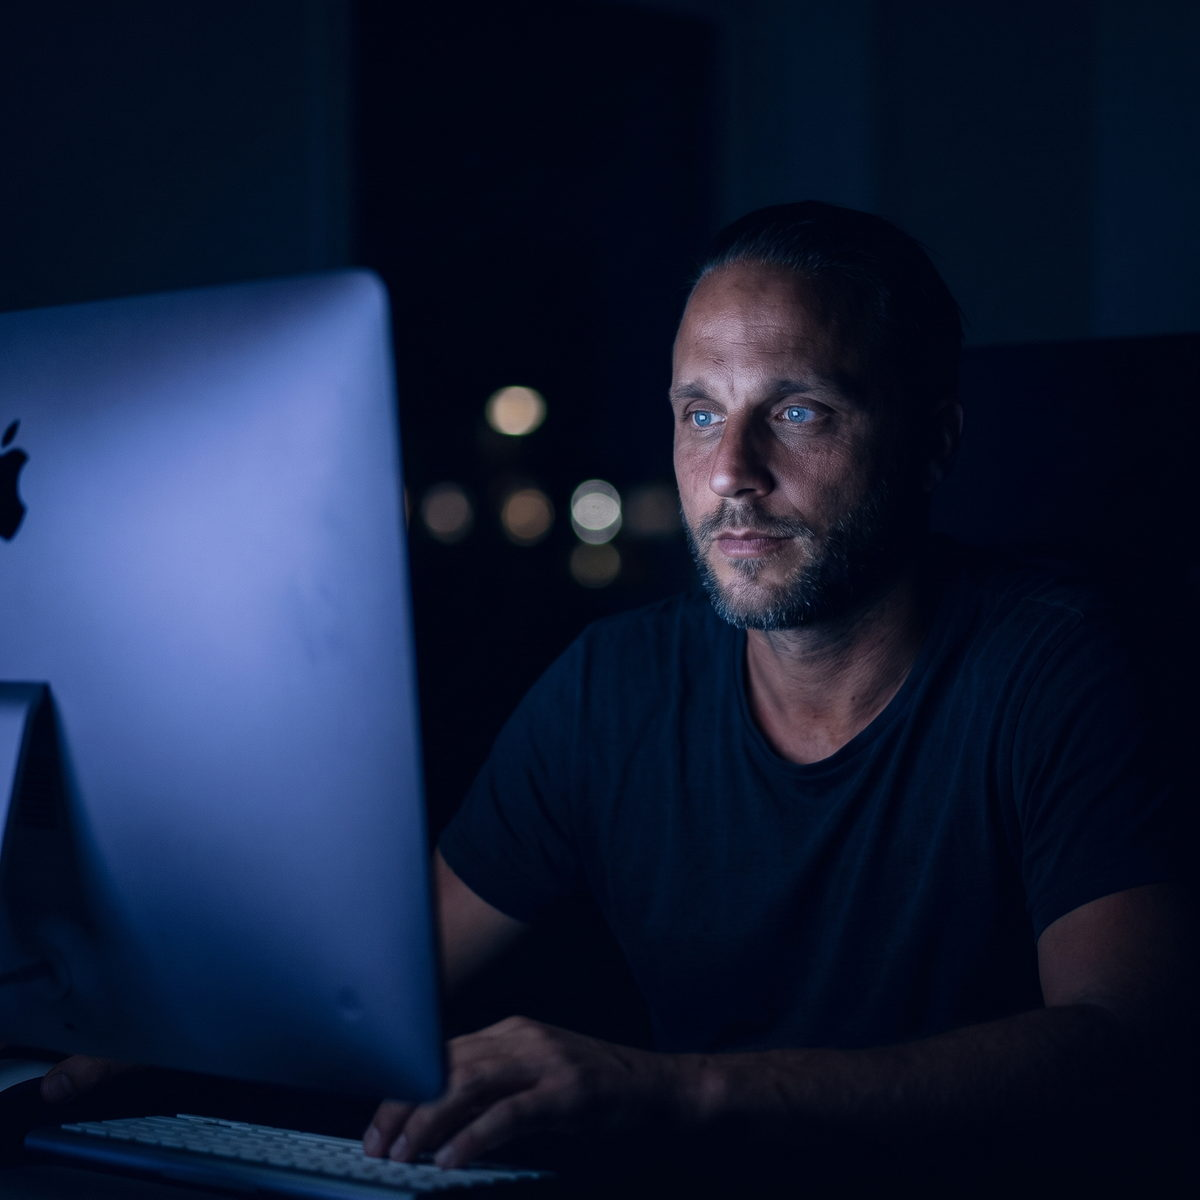
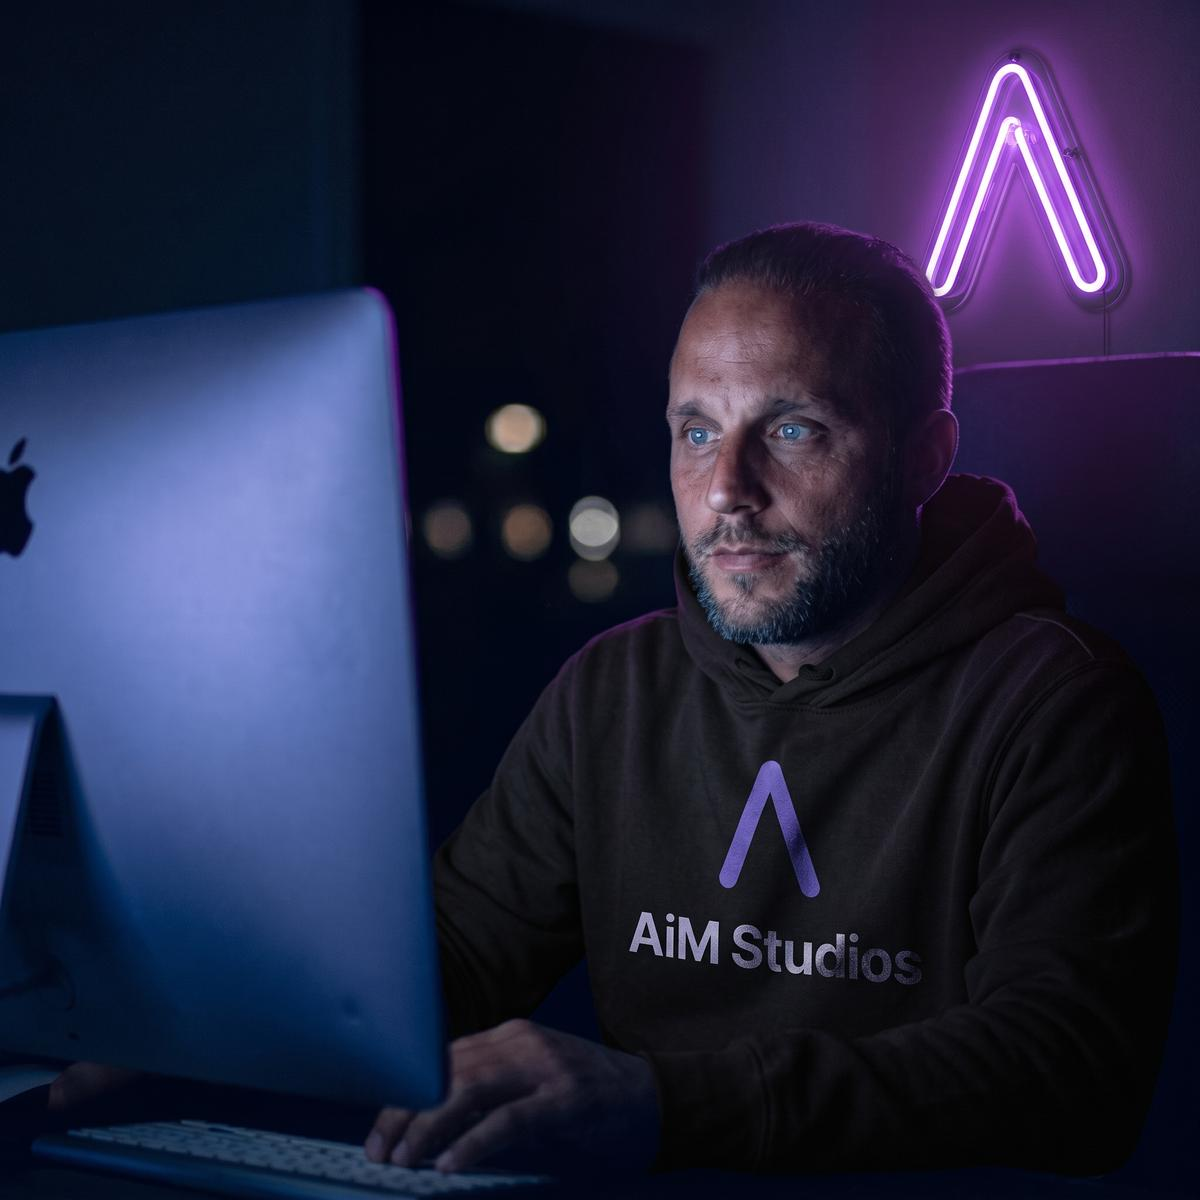
Ny portrattbild pa /om-oss/, omsparad mindre an den gamla
Samma bild, redigerad. Kallan var 2048x2048 och skalades till 1200x1200
sa att width/height i markupen fortsatt stammer. Bade jpg och webp
sparades om: 71910 -> 70380 B och 28304 -> 28032 B.

Cachebrytaren for portrattet gar 1 -> 2 pa bada kallorna i <picture>.
Den ar egen och rors inte av sajtens ?v=134.

Claude-Session: https://claude.ai/code/session_0187Qv9qQqyoG6Un9WbJA1BM

diff --git a/om-oss/index.html b/om-oss/index.html
@@ -124,8 +124,8 @@
     <div class="about-grid">
       <div class="about-visual">
         <picture>
-          <source srcset="/assets/fredrik.webp?v=1" type="image/webp">
-          <img width="1200" height="1200" src="/assets/fredrik.jpg?v=1" alt="Fredrik, AiM Studios" loading="lazy">
+          <source srcset="/assets/fredrik.webp?v=2" type="image/webp">
+          <img width="1200" height="1200" src="/assets/fredrik.jpg?v=2" alt="Fredrik, AiM Studios" loading="lazy">
         </picture>
       </div>
 
